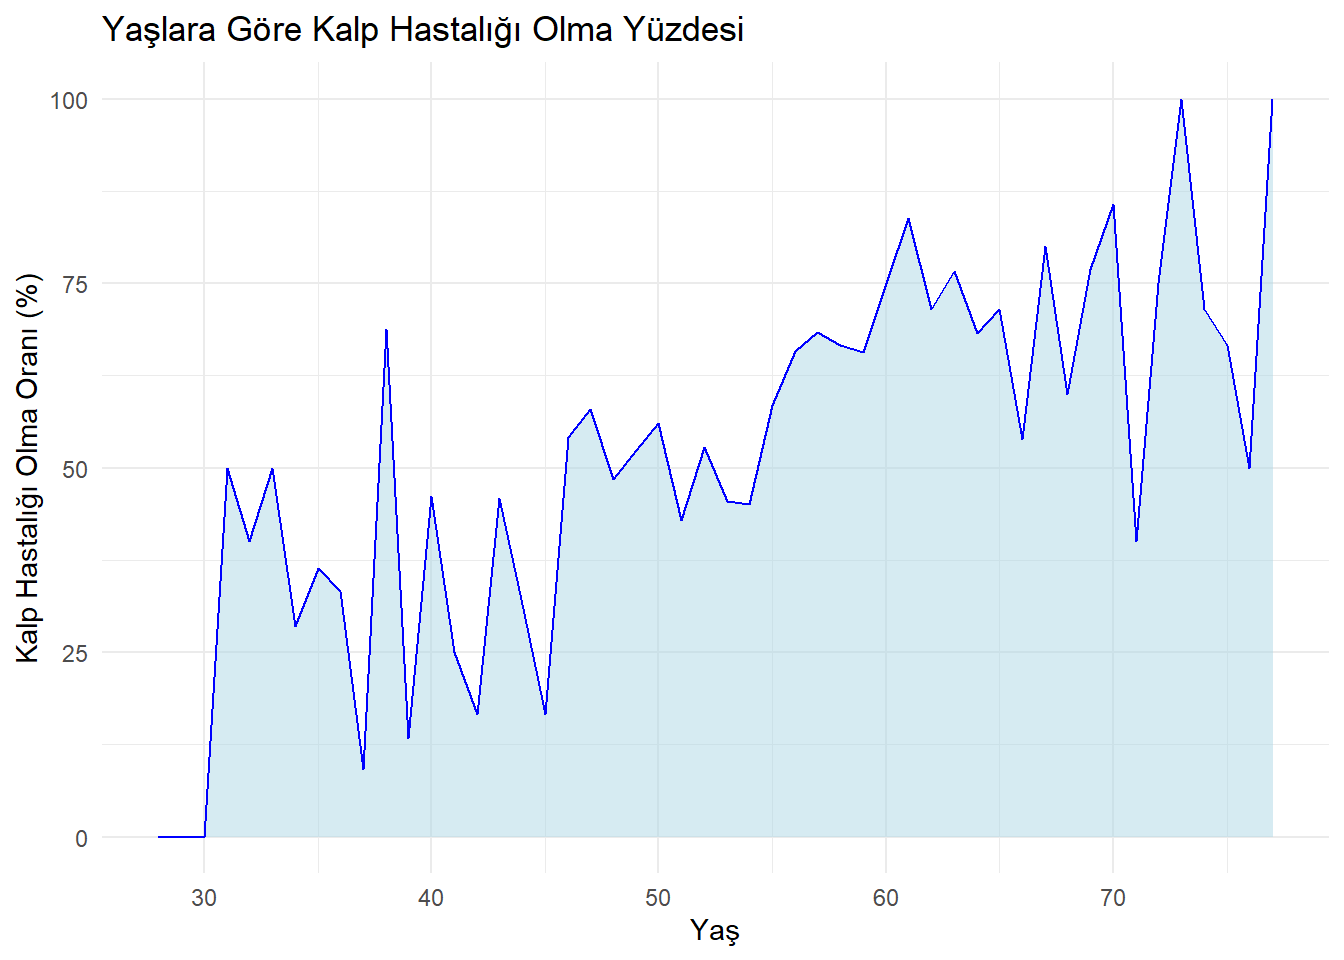
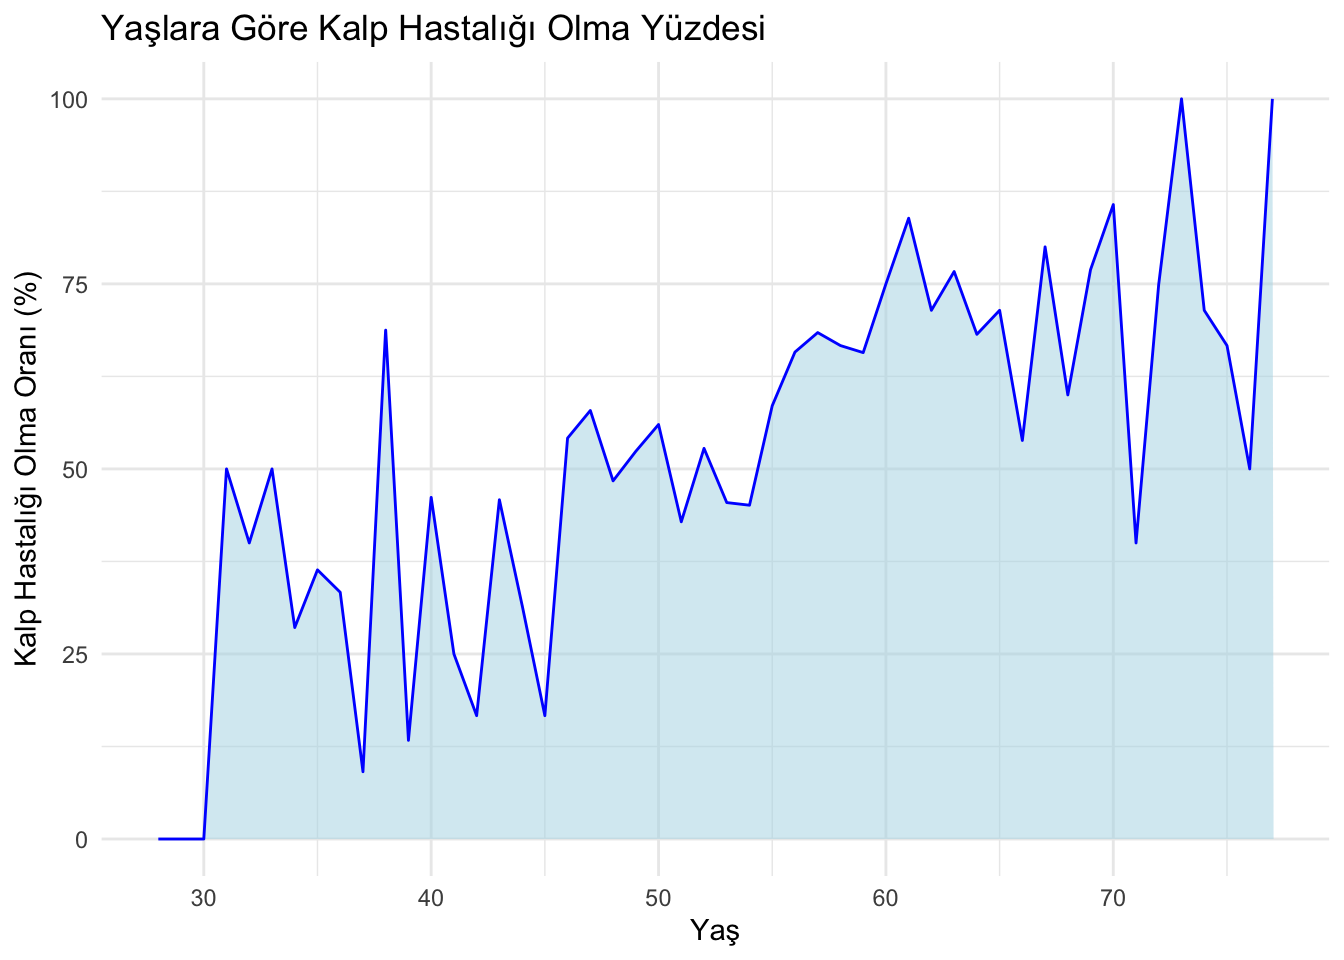
model eklendi
model

diff --git a/docs/proje.html b/docs/proje.html
@@ -653,7 +653,7 @@ Bu da yaşın, kalp hastalığı için önemli bir risk faktörü olduğunu gös
 <span id="cb18-11"><a href="#cb18-11" aria-hidden="true" tabindex="-1"></a><span class="fu">ggplot</span>(age_heart_disease, <span class="fu">aes</span>(<span class="at">x =</span> Yas, <span class="at">y =</span> percent)) <span class="sc">+</span></span>
 <span id="cb18-12"><a href="#cb18-12" aria-hidden="true" tabindex="-1"></a>  <span class="fu">geom_area</span>(<span class="at">fill =</span> <span class="st">"lightblue"</span>, <span class="at">alpha =</span> <span class="fl">0.5</span>) <span class="sc">+</span></span>
 <span id="cb18-13"><a href="#cb18-13" aria-hidden="true" tabindex="-1"></a>  <span class="fu">geom_line</span>(<span class="at">color =</span> <span class="st">"blue"</span>) <span class="sc">+</span></span>
-<span id="cb18-14"><a href="#cb18-14" aria-hidden="true" tabindex="-1"></a>  <span class="fu">labs</span>(<span class="at">title =</span> <span class="st">"Yaşlara Göre Kalp Hastalığı Olma Durumu"</span>,</span>
+<span id="cb18-14"><a href="#cb18-14" aria-hidden="true" tabindex="-1"></a>  <span class="fu">labs</span>(<span class="at">title =</span> <span class="st">"Yaşlara Göre Kalp Hastalığı Olma Yüzdesi"</span>,</span>
 <span id="cb18-15"><a href="#cb18-15" aria-hidden="true" tabindex="-1"></a>       <span class="at">x =</span> <span class="st">"Yaş"</span>,</span>
 <span id="cb18-16"><a href="#cb18-16" aria-hidden="true" tabindex="-1"></a>       <span class="at">y =</span> <span class="st">"Kalp Hastalığı Olma Oranı (%)"</span>) <span class="sc">+</span></span>
 <span id="cb18-17"><a href="#cb18-17" aria-hidden="true" tabindex="-1"></a>  <span class="fu">theme_minimal</span>()</span></code><button title="Copy to Clipboard" class="code-copy-button"><i class="bi"></i></button></pre></div>
@@ -670,11 +670,126 @@ Bu da yaşın, kalp hastalığı için önemli bir risk faktörü olduğunu gös
 </section>
 <section id="model-uydurma" class="level2" data-number="3.3">
 <h2 data-number="3.3" class="anchored" data-anchor-id="model-uydurma"><span class="header-section-number">3.3</span> Model Uydurma</h2>
-<p>xxxxxx</p>
+<p>Elimizdeki veri seti için bir tahmin modeli oluşturmak istedik, Bu modelin incelediğimiz veri seti kapsamında veri setindeki öznitelikler kapsamında Kalp Hastası olup olmadığının sonucunu belirli oranlarda doğru olarak tahmin etmesi için çalışmalar yaptık.</p>
+<p>İlk olarak ilgili veri setindeki kategorik değişkenleri vektörlere çevirdik, daha sonra elimizdeki veri setinin %80 inceleme %20 test verisi olacak şekilde ayırdık. Tüm değişkenleri vektör yaptıktan sonra Lojistik Regresyon Modeli uygulayarak bir model çıkardık ilgili modelin katsayıları aşağıdadır.</p>
+<div class="cell">
+<details class="code-fold">
+<summary>R Talimatları</summary>
+<div class="sourceCode cell-code" id="cb19"><pre class="sourceCode r code-with-copy"><code class="sourceCode r"><span id="cb19-1"><a href="#cb19-1" aria-hidden="true" tabindex="-1"></a>data <span class="ot">&lt;-</span> <span class="fu">read_excel</span>(<span class="st">"heart1.xlsx"</span>)</span>
+<span id="cb19-2"><a href="#cb19-2" aria-hidden="true" tabindex="-1"></a><span class="fu">colnames</span>(df_total) <span class="ot">&lt;-</span> <span class="fu">c</span>(<span class="st">"Yas"</span>, <span class="st">"Cinsiyet"</span>, <span class="st">"Agri_Tipi"</span>, <span class="st">"Dinlenme_Kan_Basinci"</span>, <span class="st">"Kolestorel"</span>, <span class="st">"Aclik_Kan_Sekeri"</span>, <span class="st">"Dinlenme_EKG"</span>, <span class="st">"Maks_Kalp_Atis"</span>, <span class="st">"Egzersiz_Angina"</span>, <span class="st">"Oldpeak"</span>, <span class="st">"ST_Egimi"</span>, <span class="st">"Kalp_Hastaligi"</span>)</span>
+<span id="cb19-3"><a href="#cb19-3" aria-hidden="true" tabindex="-1"></a></span>
+<span id="cb19-4"><a href="#cb19-4" aria-hidden="true" tabindex="-1"></a>df_total<span class="sc">$</span>Cinsiyet <span class="ot">&lt;-</span> <span class="fu">as.factor</span>(df_total<span class="sc">$</span>Cinsiyet)</span>
+<span id="cb19-5"><a href="#cb19-5" aria-hidden="true" tabindex="-1"></a>df_total<span class="sc">$</span>Agri_Tipi <span class="ot">&lt;-</span> <span class="fu">as.factor</span>(df_total<span class="sc">$</span>Agri_Tipi)</span>
+<span id="cb19-6"><a href="#cb19-6" aria-hidden="true" tabindex="-1"></a>df_total<span class="sc">$</span>Dinlenme_EKG <span class="ot">&lt;-</span> <span class="fu">as.factor</span>(df_total<span class="sc">$</span>Dinlenme_EKG)</span>
+<span id="cb19-7"><a href="#cb19-7" aria-hidden="true" tabindex="-1"></a>df_total<span class="sc">$</span>Egzersiz_Angina <span class="ot">&lt;-</span> <span class="fu">as.factor</span>(df_total<span class="sc">$</span>Egzersiz_Angina)</span>
+<span id="cb19-8"><a href="#cb19-8" aria-hidden="true" tabindex="-1"></a>df_total<span class="sc">$</span>ST_Egimi <span class="ot">&lt;-</span> <span class="fu">as.factor</span>(df_total<span class="sc">$</span>ST_Egimi)</span>
+<span id="cb19-9"><a href="#cb19-9" aria-hidden="true" tabindex="-1"></a>df_total<span class="sc">$</span>Kalp_Hastaligi <span class="ot">&lt;-</span> <span class="fu">as.factor</span>(df_total<span class="sc">$</span>Kalp_Hastaligi)</span>
+<span id="cb19-10"><a href="#cb19-10" aria-hidden="true" tabindex="-1"></a></span>
+<span id="cb19-11"><a href="#cb19-11" aria-hidden="true" tabindex="-1"></a><span class="fu">set.seed</span>(<span class="dv">123</span>)</span>
+<span id="cb19-12"><a href="#cb19-12" aria-hidden="true" tabindex="-1"></a>trainIndex <span class="ot">&lt;-</span> <span class="fu">createDataPartition</span>(df_total<span class="sc">$</span>Kalp_Hastaligi, <span class="at">p =</span> .<span class="dv">8</span>, </span>
+<span id="cb19-13"><a href="#cb19-13" aria-hidden="true" tabindex="-1"></a>                                  <span class="at">list =</span> <span class="cn">FALSE</span>, </span>
+<span id="cb19-14"><a href="#cb19-14" aria-hidden="true" tabindex="-1"></a>                                  <span class="at">times =</span> <span class="dv">1</span>)</span>
+<span id="cb19-15"><a href="#cb19-15" aria-hidden="true" tabindex="-1"></a>data_train <span class="ot">&lt;-</span> df_total[trainIndex, ]</span>
+<span id="cb19-16"><a href="#cb19-16" aria-hidden="true" tabindex="-1"></a>data_test  <span class="ot">&lt;-</span> df_total[<span class="sc">-</span>trainIndex, ]</span>
+<span id="cb19-17"><a href="#cb19-17" aria-hidden="true" tabindex="-1"></a></span>
+<span id="cb19-18"><a href="#cb19-18" aria-hidden="true" tabindex="-1"></a>model <span class="ot">&lt;-</span> <span class="fu">glm</span>(Kalp_Hastaligi <span class="sc">~</span> ., <span class="at">data =</span> data_train, <span class="at">family =</span> binomial)</span>
+<span id="cb19-19"><a href="#cb19-19" aria-hidden="true" tabindex="-1"></a><span class="fu">print</span>(model)</span></code><button title="Copy to Clipboard" class="code-copy-button"><i class="bi"></i></button></pre></div>
+</details>
+<div class="cell-output cell-output-stdout">
+<pre><code>
+Call:  glm(formula = Kalp_Hastaligi ~ ., family = binomial, data = data_train)
+
+Coefficients:
+         (Intercept)                   Yas         CinsiyetKadin  
+            0.989806              0.017933             -1.427987  
+        Agri_TipiATA          Agri_TipiNAP           Agri_TipiTA  
+           -1.892034             -1.698051             -1.663547  
+Dinlenme_Kan_Basinci            Kolestorel      Aclik_Kan_Sekeri  
+            0.001359             -0.003824              1.094214  
+  Dinlenme_EKGNormal        Dinlenme_EKGST        Maks_Kalp_Atis  
+           -0.114118             -0.105218             -0.003183  
+Egzersiz_AnginaHayir               Oldpeak          ST_EgimiFlat  
+           -0.839915              0.356376              1.672647  
+          ST_EgimiUp  
+           -0.754793  
+
+Degrees of Freedom: 734 Total (i.e. Null);  719 Residual
+Null Deviance:      1010 
+Residual Deviance: 492.2    AIC: 524.2</code></pre>
+</div>
+</div>
+<p>Regresyon modeli değerleri ve katsayıları yukarıda yer almaktadır. Bu modeli kullanarak yapılan tahminleri test verisi ile test ettik ve sonuçları için karmaşıklı matrisinde aşağıdaki gibi yazdırdık.</p>
+<div class="cell">
+<details class="code-fold">
+<summary>R Talimatları</summary>
+<div class="sourceCode cell-code" id="cb21"><pre class="sourceCode r code-with-copy"><code class="sourceCode r"><span id="cb21-1"><a href="#cb21-1" aria-hidden="true" tabindex="-1"></a>data <span class="ot">&lt;-</span> <span class="fu">read_excel</span>(<span class="st">"heart1.xlsx"</span>)</span>
+<span id="cb21-2"><a href="#cb21-2" aria-hidden="true" tabindex="-1"></a><span class="fu">colnames</span>(df_total) <span class="ot">&lt;-</span> <span class="fu">c</span>(<span class="st">"Yas"</span>, <span class="st">"Cinsiyet"</span>, <span class="st">"Agri_Tipi"</span>, <span class="st">"Dinlenme_Kan_Basinci"</span>, <span class="st">"Kolestorel"</span>, <span class="st">"Aclik_Kan_Sekeri"</span>, <span class="st">"Dinlenme_EKG"</span>, <span class="st">"Maks_Kalp_Atis"</span>, <span class="st">"Egzersiz_Angina"</span>, <span class="st">"Oldpeak"</span>, <span class="st">"ST_Egimi"</span>, <span class="st">"Kalp_Hastaligi"</span>)</span>
+<span id="cb21-3"><a href="#cb21-3" aria-hidden="true" tabindex="-1"></a></span>
+<span id="cb21-4"><a href="#cb21-4" aria-hidden="true" tabindex="-1"></a>df_total<span class="sc">$</span>Cinsiyet <span class="ot">&lt;-</span> <span class="fu">as.factor</span>(df_total<span class="sc">$</span>Cinsiyet)</span>
+<span id="cb21-5"><a href="#cb21-5" aria-hidden="true" tabindex="-1"></a>df_total<span class="sc">$</span>Agri_Tipi <span class="ot">&lt;-</span> <span class="fu">as.factor</span>(df_total<span class="sc">$</span>Agri_Tipi)</span>
+<span id="cb21-6"><a href="#cb21-6" aria-hidden="true" tabindex="-1"></a>df_total<span class="sc">$</span>Dinlenme_EKG <span class="ot">&lt;-</span> <span class="fu">as.factor</span>(df_total<span class="sc">$</span>Dinlenme_EKG)</span>
+<span id="cb21-7"><a href="#cb21-7" aria-hidden="true" tabindex="-1"></a>df_total<span class="sc">$</span>Egzersiz_Angina <span class="ot">&lt;-</span> <span class="fu">as.factor</span>(df_total<span class="sc">$</span>Egzersiz_Angina)</span>
+<span id="cb21-8"><a href="#cb21-8" aria-hidden="true" tabindex="-1"></a>df_total<span class="sc">$</span>ST_Egimi <span class="ot">&lt;-</span> <span class="fu">as.factor</span>(df_total<span class="sc">$</span>ST_Egimi)</span>
+<span id="cb21-9"><a href="#cb21-9" aria-hidden="true" tabindex="-1"></a>df_total<span class="sc">$</span>Kalp_Hastaligi <span class="ot">&lt;-</span> <span class="fu">as.factor</span>(df_total<span class="sc">$</span>Kalp_Hastaligi)</span>
+<span id="cb21-10"><a href="#cb21-10" aria-hidden="true" tabindex="-1"></a><span class="fu">set.seed</span>(<span class="dv">123</span>)</span>
+<span id="cb21-11"><a href="#cb21-11" aria-hidden="true" tabindex="-1"></a>trainIndex <span class="ot">&lt;-</span> <span class="fu">createDataPartition</span>(df_total<span class="sc">$</span>Kalp_Hastaligi, <span class="at">p =</span> .<span class="dv">8</span>, </span>
+<span id="cb21-12"><a href="#cb21-12" aria-hidden="true" tabindex="-1"></a>                                  <span class="at">list =</span> <span class="cn">FALSE</span>, </span>
+<span id="cb21-13"><a href="#cb21-13" aria-hidden="true" tabindex="-1"></a>                                  <span class="at">times =</span> <span class="dv">1</span>)</span>
+<span id="cb21-14"><a href="#cb21-14" aria-hidden="true" tabindex="-1"></a>data_train <span class="ot">&lt;-</span> df_total[trainIndex, ]</span>
+<span id="cb21-15"><a href="#cb21-15" aria-hidden="true" tabindex="-1"></a>data_test  <span class="ot">&lt;-</span> df_total[<span class="sc">-</span>trainIndex, ]</span>
+<span id="cb21-16"><a href="#cb21-16" aria-hidden="true" tabindex="-1"></a>model <span class="ot">&lt;-</span> <span class="fu">glm</span>(Kalp_Hastaligi <span class="sc">~</span> ., <span class="at">data =</span> data_train, <span class="at">family =</span> binomial)</span>
+<span id="cb21-17"><a href="#cb21-17" aria-hidden="true" tabindex="-1"></a></span>
+<span id="cb21-18"><a href="#cb21-18" aria-hidden="true" tabindex="-1"></a><span class="do">#########################################################################HATA ANALİZİ###############################</span></span>
+<span id="cb21-19"><a href="#cb21-19" aria-hidden="true" tabindex="-1"></a>predictions <span class="ot">&lt;-</span> <span class="fu">predict</span>(model, data_test, <span class="at">type =</span> <span class="st">"response"</span>)</span>
+<span id="cb21-20"><a href="#cb21-20" aria-hidden="true" tabindex="-1"></a>predicted_classes <span class="ot">&lt;-</span> <span class="fu">ifelse</span>(predictions <span class="sc">&gt;</span> <span class="fl">0.5</span>, <span class="dv">1</span>, <span class="dv">0</span>)</span>
+<span id="cb21-21"><a href="#cb21-21" aria-hidden="true" tabindex="-1"></a></span>
+<span id="cb21-22"><a href="#cb21-22" aria-hidden="true" tabindex="-1"></a>predicted_classes <span class="ot">&lt;-</span> <span class="fu">as.factor</span>(predicted_classes)</span>
+<span id="cb21-23"><a href="#cb21-23" aria-hidden="true" tabindex="-1"></a><span class="fu">levels</span>(predicted_classes) <span class="ot">&lt;-</span> <span class="fu">levels</span>(data_test<span class="sc">$</span>Kalp_Hastaligi)</span>
+<span id="cb21-24"><a href="#cb21-24" aria-hidden="true" tabindex="-1"></a><span class="fu">confusionMatrix</span>(predicted_classes, data_test<span class="sc">$</span>Kalp_Hastaligi)</span></code><button title="Copy to Clipboard" class="code-copy-button"><i class="bi"></i></button></pre></div>
+</details>
+<div class="cell-output cell-output-stdout">
+<pre><code>Confusion Matrix and Statistics
+
+          Reference
+Prediction  0  1
+         0 73  7
+         1  9 94
+                                          
+               Accuracy : 0.9126          
+                 95% CI : (0.8619, 0.9492)
+    No Information Rate : 0.5519          
+    P-Value [Acc &gt; NIR] : &lt;2e-16          
+                                          
+                  Kappa : 0.8228          
+                                          
+ Mcnemar's Test P-Value : 0.8026          
+                                          
+            Sensitivity : 0.8902          
+            Specificity : 0.9307          
+         Pos Pred Value : 0.9125          
+         Neg Pred Value : 0.9126          
+             Prevalence : 0.4481          
+         Detection Rate : 0.3989          
+   Detection Prevalence : 0.4372          
+      Balanced Accuracy : 0.9105          
+                                          
+       'Positive' Class : 0               
+                                          </code></pre>
+</div>
+<details class="code-fold">
+<summary>R Talimatları</summary>
+<div class="sourceCode cell-code" id="cb23"><pre class="sourceCode r code-with-copy"><code class="sourceCode r"><span id="cb23-1"><a href="#cb23-1" aria-hidden="true" tabindex="-1"></a>cm <span class="ot">&lt;-</span> <span class="fu">confusionMatrix</span>(predicted_classes, data_test<span class="sc">$</span>Kalp_Hastaligi)</span></code><button title="Copy to Clipboard" class="code-copy-button"><i class="bi"></i></button></pre></div>
+</details>
+</div>
+<ul>
+<li><p><strong>Doğru Negatifler (TN)</strong>: 73 (Modelin 0 olarak doğru tahmin ettiği ve gerçekte de 0 olan)</p></li>
+<li><p><strong>Yanlış Negatifler (FN)</strong>: 7 (Modelin 0 olarak yanlış tahmin ettiği ve gerçekte 1 olan)</p></li>
+<li><p><strong>Yanlış Pozitifler (FP)</strong>: 9 (Modelin 1 olarak yanlış tahmin ettiği ve gerçekte 0 olan)</p></li>
+<li><p><strong>Doğru Pozitifler (TP)</strong>: 94 (Modelin 1 olarak doğru tahmin ettiği ve gerçekte de 1 olan)</p></li>
+</ul>
 </section>
 <section id="sonuçlar" class="level2" data-number="3.4">
 <h2 data-number="3.4" class="anchored" data-anchor-id="sonuçlar"><span class="header-section-number">3.4</span> Sonuçlar</h2>
-<p>xxxxxx</p>
 </section>
 </section>
 <section id="sonuçlar-ve-ana-çıkarımlar" class="level1" data-number="4">
